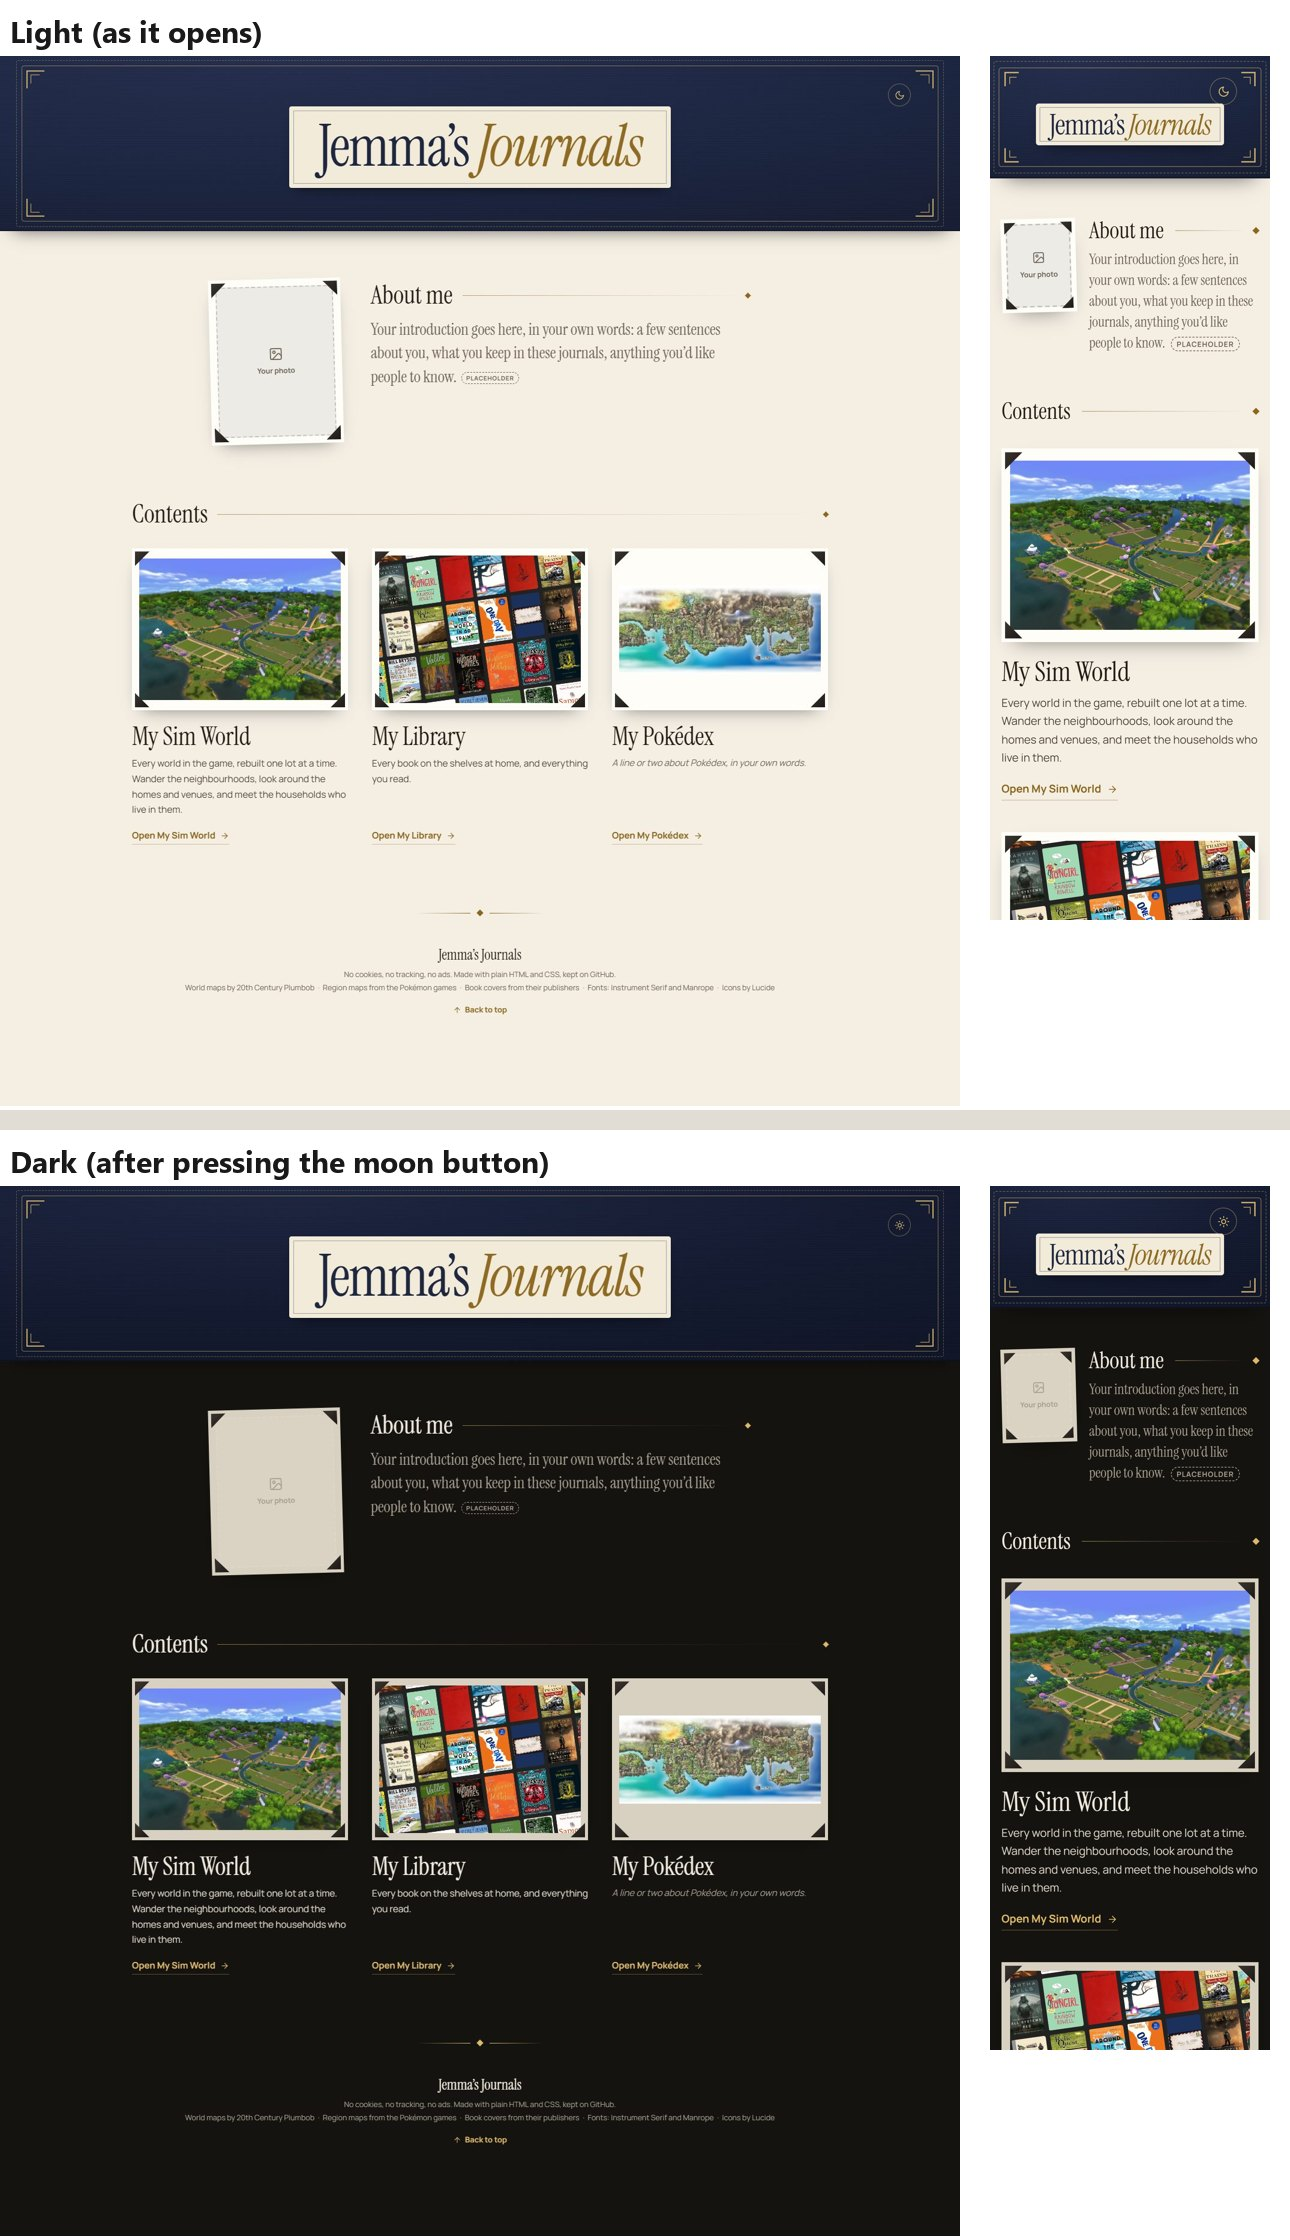
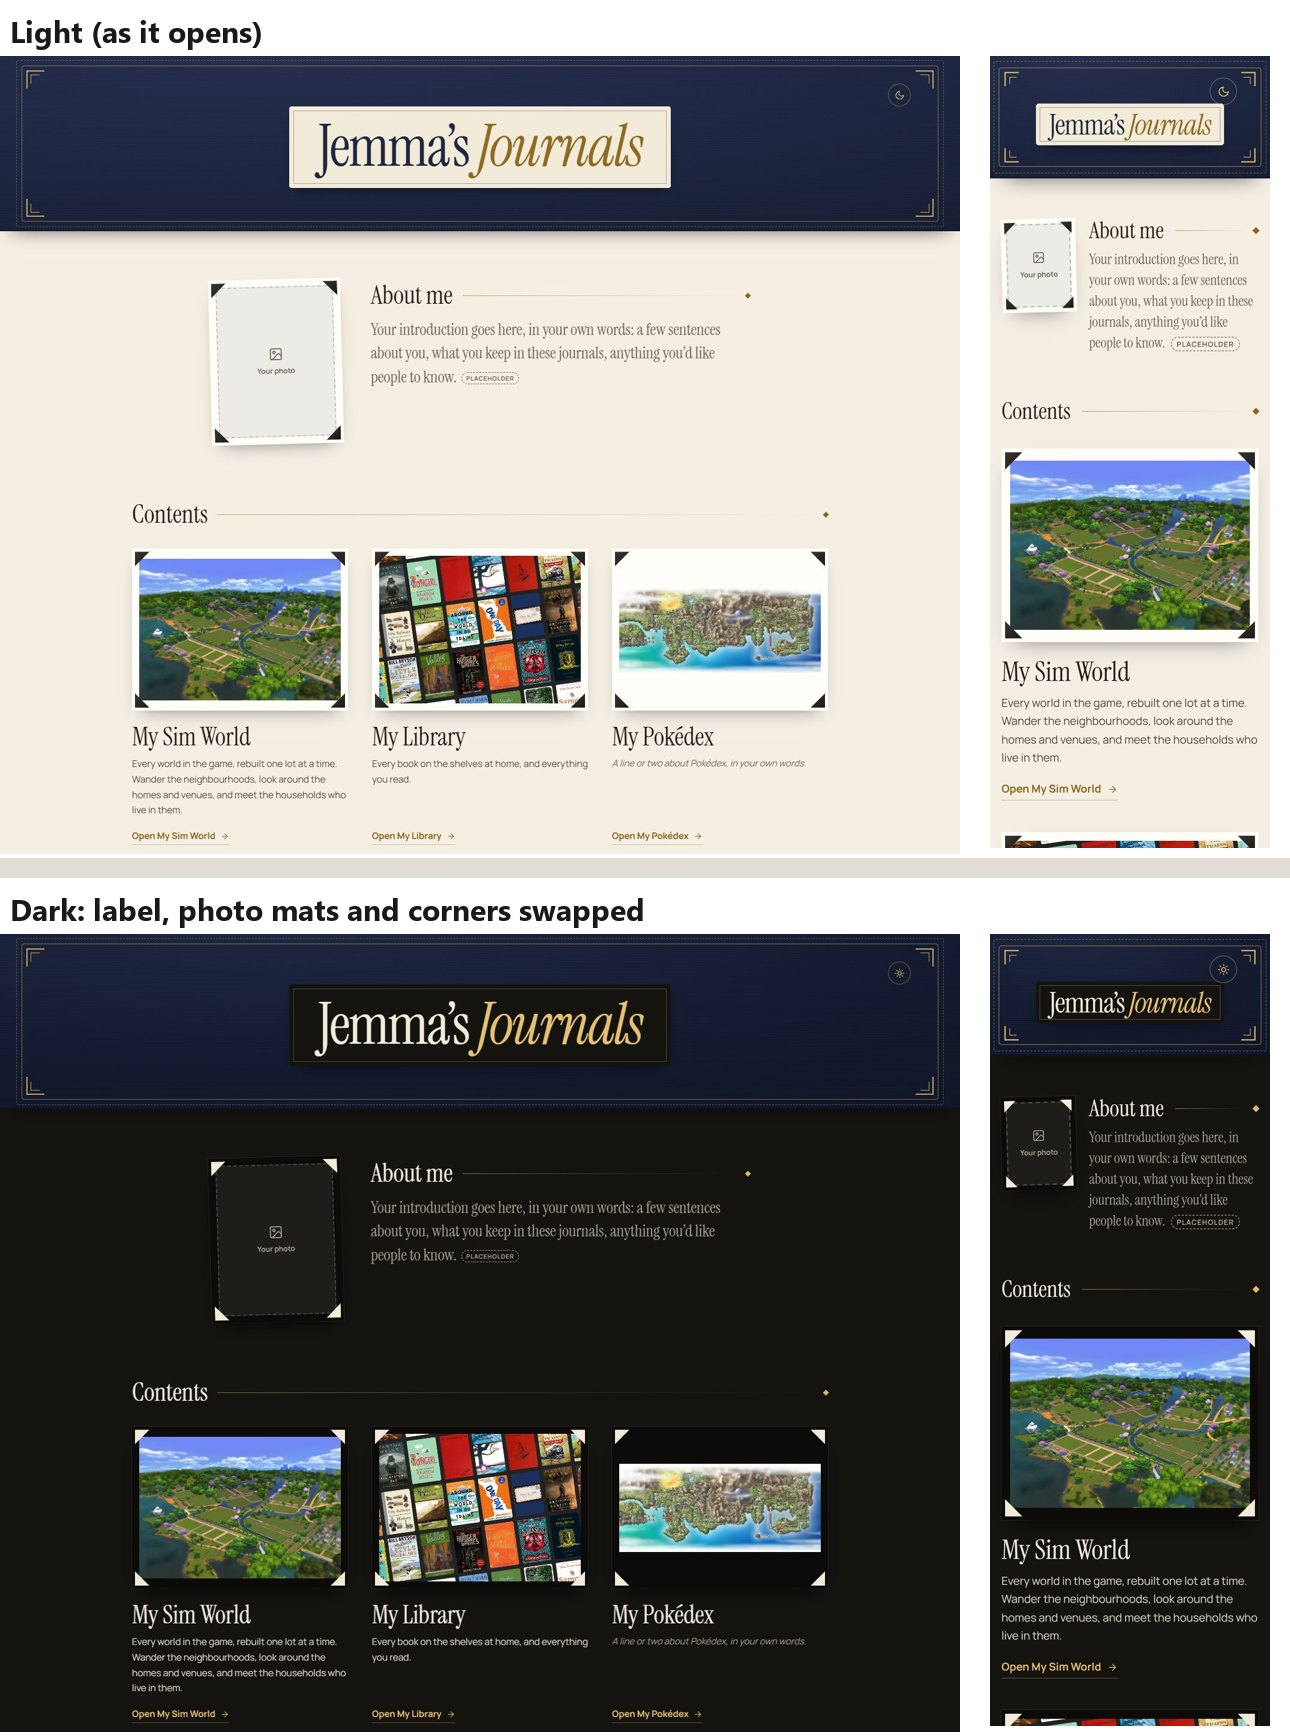
Dark mode swaps colours consistently (her ask): title label = page dark, photo mats black, photo corners cream

diff --git a/concepts/index.html b/concepts/index.html
@@ -31,7 +31,13 @@
 :root[data-mode="dark"]{
   --bg:#15130F; --ink:#EFE9DE; --soft-ink:#D6CEC1; --mute:#A89F91; --line:#2F2A23; --acc:#DDB86A; --mat:#E9E2D4; --cover:#131A30;
   --sw-bg:#1E2330; --sw-ink:#ECEEF3; --sw-mute:#9AA1B2; --sw-line:#30364A; --sw-on:#ECEEF3; --sw-on-ink:#151923; color-scheme:dark }
-:root[data-mode="dark"] .v2{--mat:#D8D0C1}
+/* dark mode turns the light things dark (her ask, 20 Nov): the title label and the photo mats go blackish, the photo corners go cream-white */
+:root[data-mode="dark"]{--label:var(--bg); --label-ink:#F3EBDA}   /* same as the page, as the cream label matches the cream page in light */
+:root[data-mode="dark"] .v2{--mat:#0C0B09}
+:root[data-mode="dark"] .cover h1{outline-color:rgba(243,235,218,.22)}
+:root[data-mode="dark"] .cover h1 em{color:var(--gold)}
+:root[data-mode="dark"] .c{background:#F3EBDA;box-shadow:0 1px 2px rgba(0,0,0,.6)}
+:root[data-mode="dark"] .snap,:root[data-mode="dark"] .v2 .intro .mount{box-shadow:0 14px 30px -14px rgba(0,0,0,.9),0 0 0 1px rgba(243,235,218,.08)}
 
 *{box-sizing:border-box}
 html{background:var(--bg);scroll-behavior:smooth}
